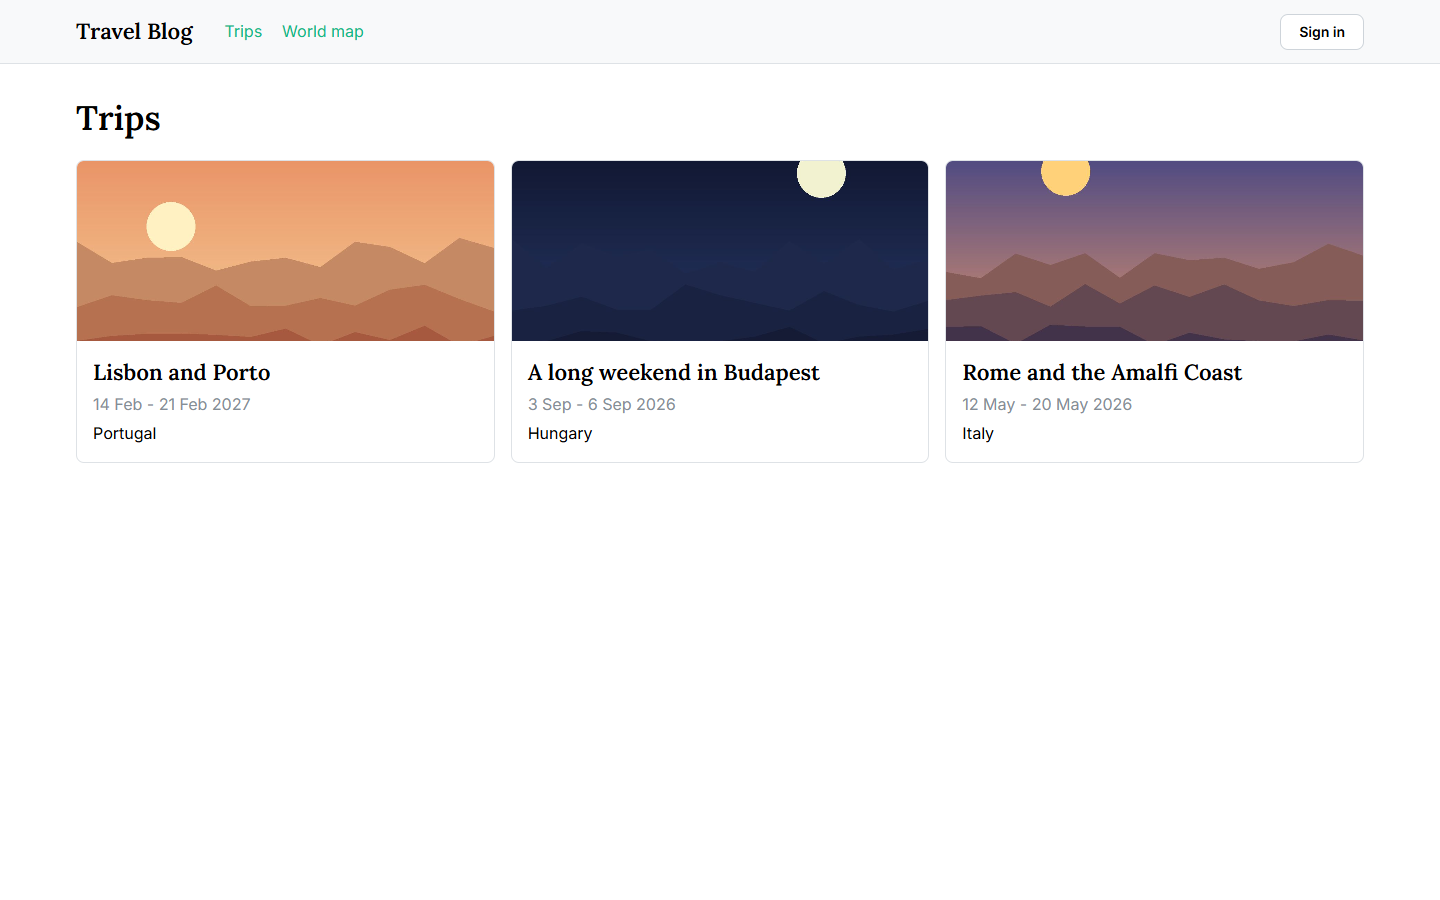
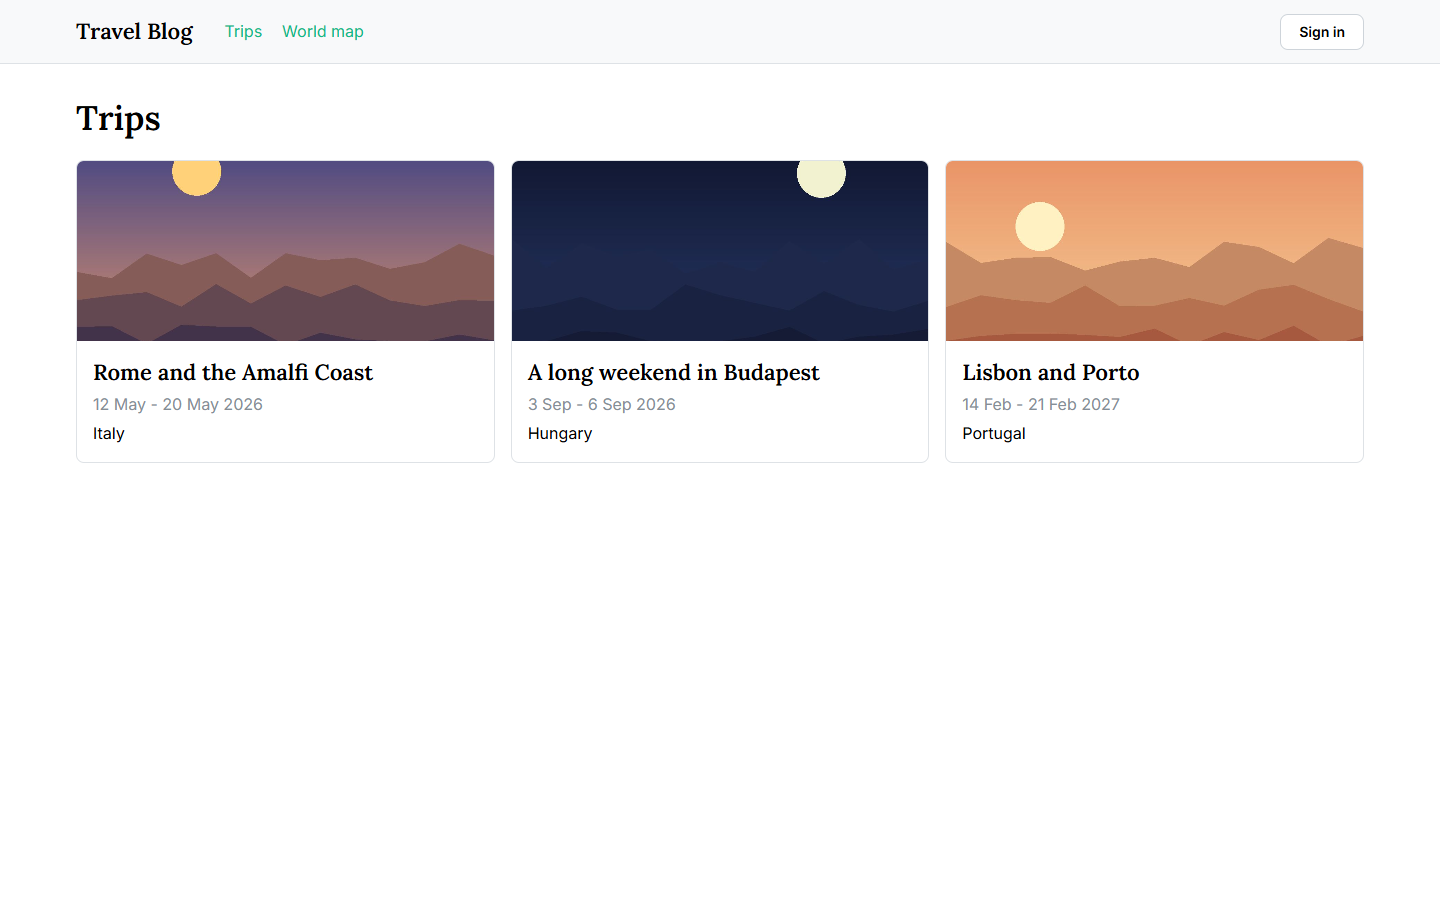
fix(core): seed the trips so rome opens the list (#66)
* fix(core): seed the trips so rome opens the list

* docs: retake trip list screenshots with rome first

Changed region(s): [[0.6562, 0.1556, 0.9688, 0.4978], [0.0312, 0.1556, 0.3438, 0.4978]]

diff --git a/backend/core/tests/test_seed.py b/backend/core/tests/test_seed.py
@@ -118,6 +118,22 @@ def test_seed_draft_hidden_from_visitors(seed):
     assert len(titles) == 3
 
 
+def test_seed_trips_list_starts_with_rome(seed, django_capture_on_commit_callbacks):
+    for _ in range(2):
+        with django_capture_on_commit_callbacks(execute=True):
+            seed()
+        author = APIClient()
+        author.force_login(get_user_model().objects.get())
+
+        author_titles = [trip["title"] for trip in author.get(reverse("trip-list")).json()]
+        visitor_titles = [trip["title"] for trip in APIClient().get(reverse("trip-list")).json()]
+
+        assert author_titles == [trip.title for trip in data.TRIPS]
+        assert visitor_titles == [
+            trip.title for trip in data.TRIPS if trip.status == Trip.Status.PUBLISHED
+        ]
+
+
 def test_seed_is_repeatable(seed, django_capture_on_commit_callbacks):
     with django_capture_on_commit_callbacks(execute=True):
         seed()

diff --git a/backend/core/seed/load.py b/backend/core/seed/load.py
@@ -34,7 +34,10 @@ def seed_trips() -> list[Trip]:
     # One by one, so the delete signals remove each trip's files (BR-11).
     for trip in Trip.objects.filter(title__in=titles):
         trip.delete()
-    return [_create_trip(trip_data) for trip_data in data.TRIPS]
+    # The trips list shows the newest first (US-01), so the first trip of TRIPS is created last
+    # and opens the list.
+    created = [_create_trip(trip_data) for trip_data in reversed(data.TRIPS)]
+    return created[::-1]
 
 
 def _create_trip(trip_data: data.TripData) -> Trip:
